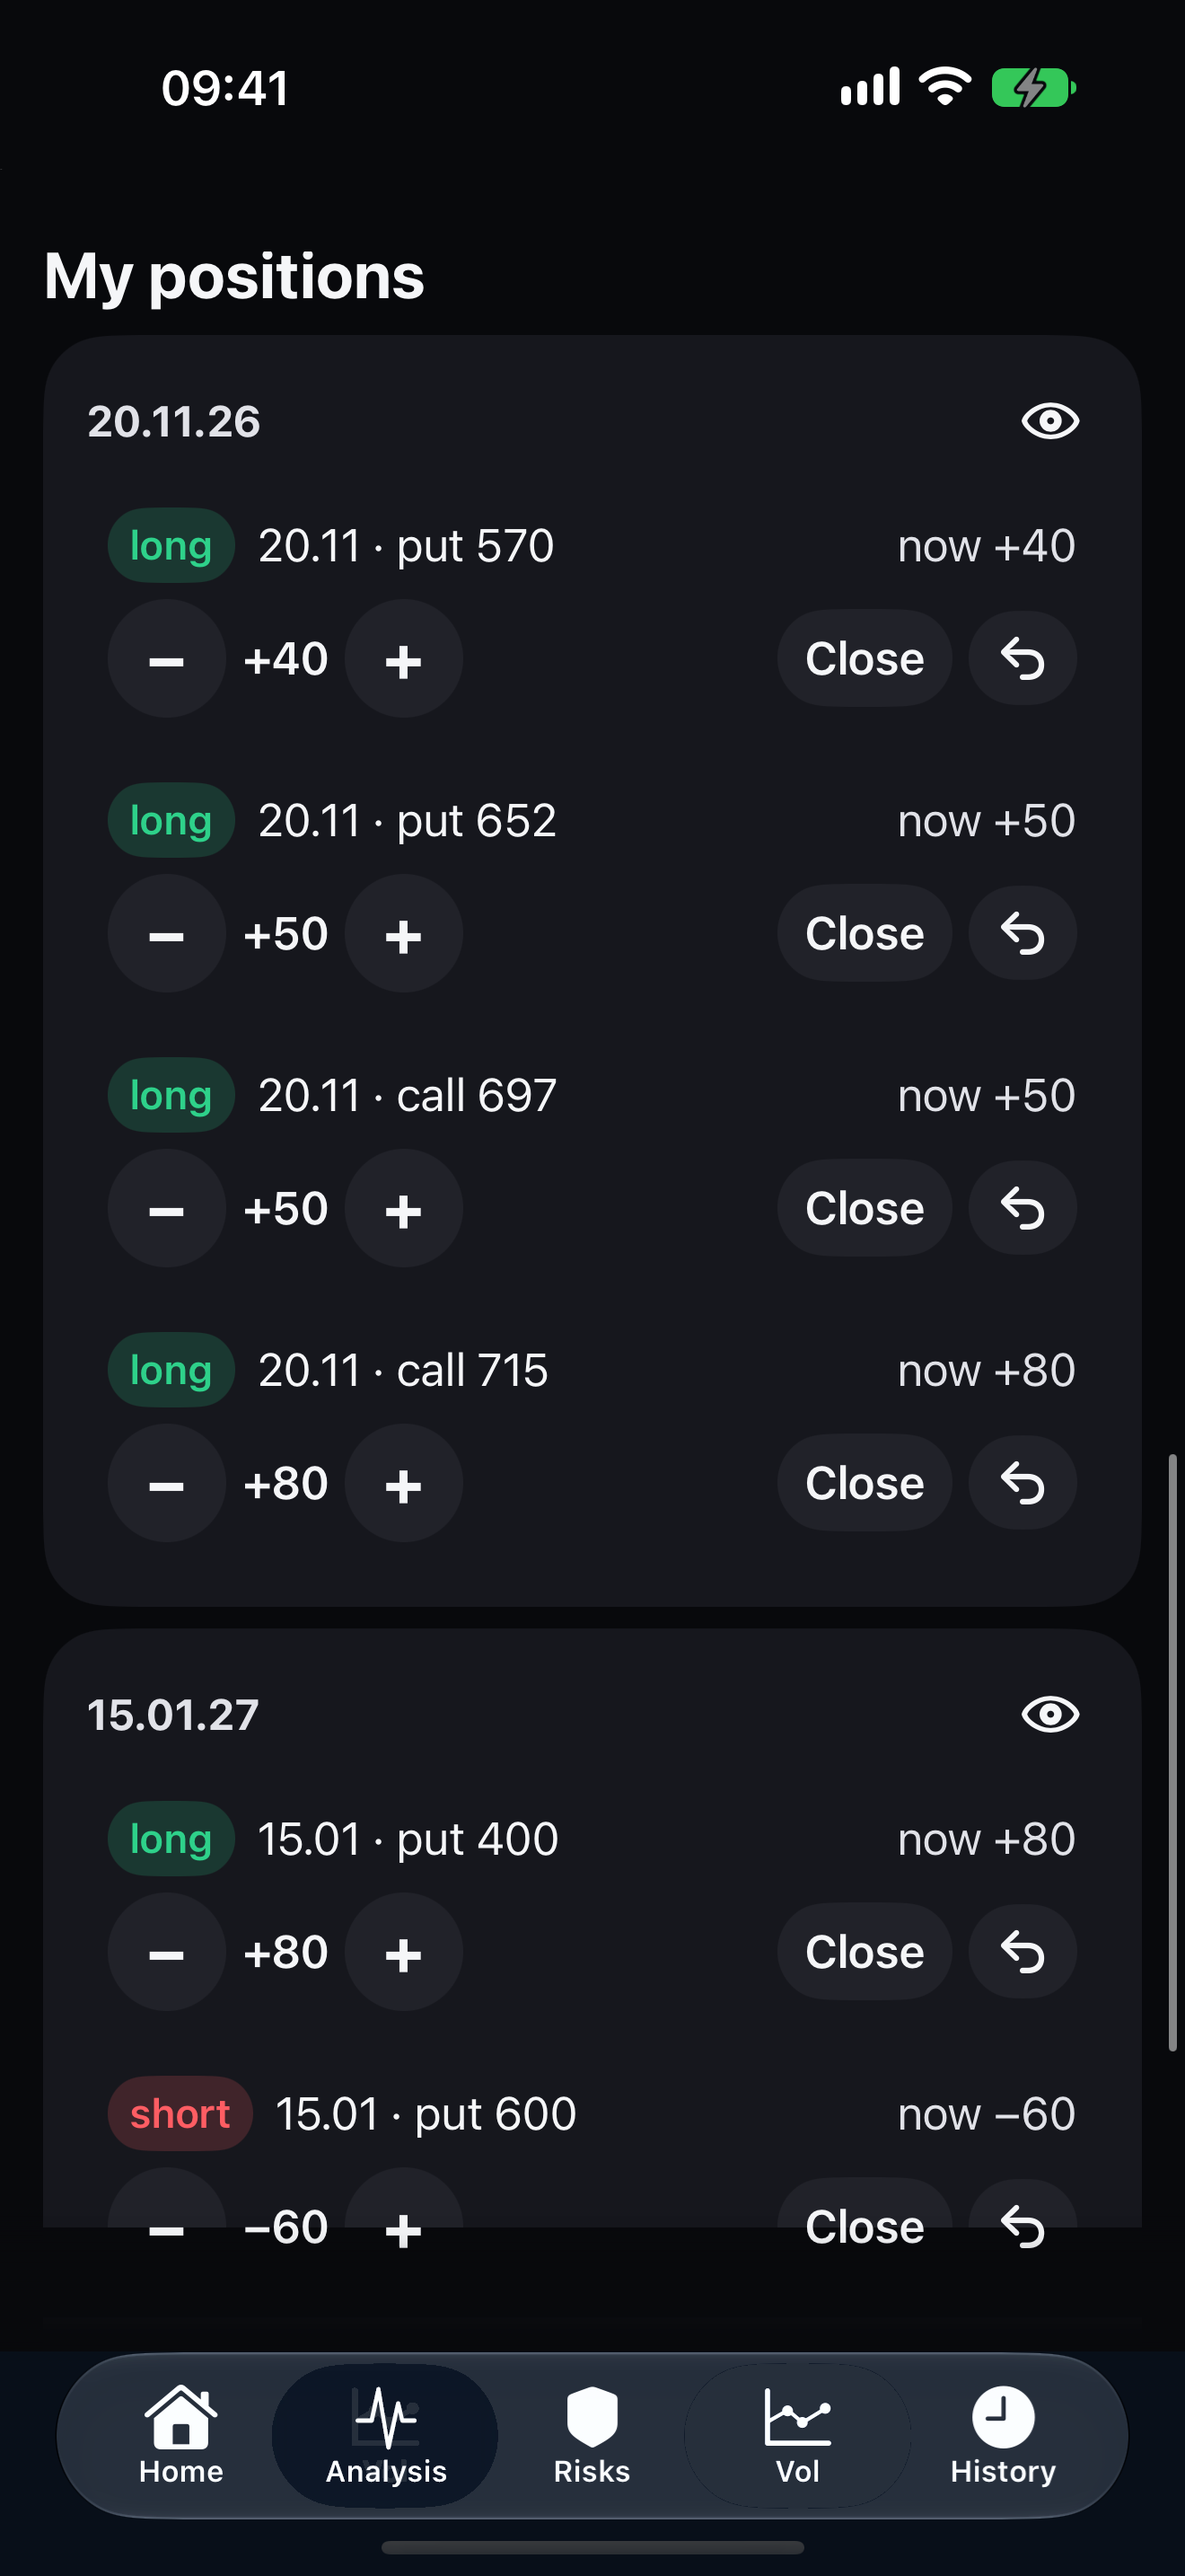
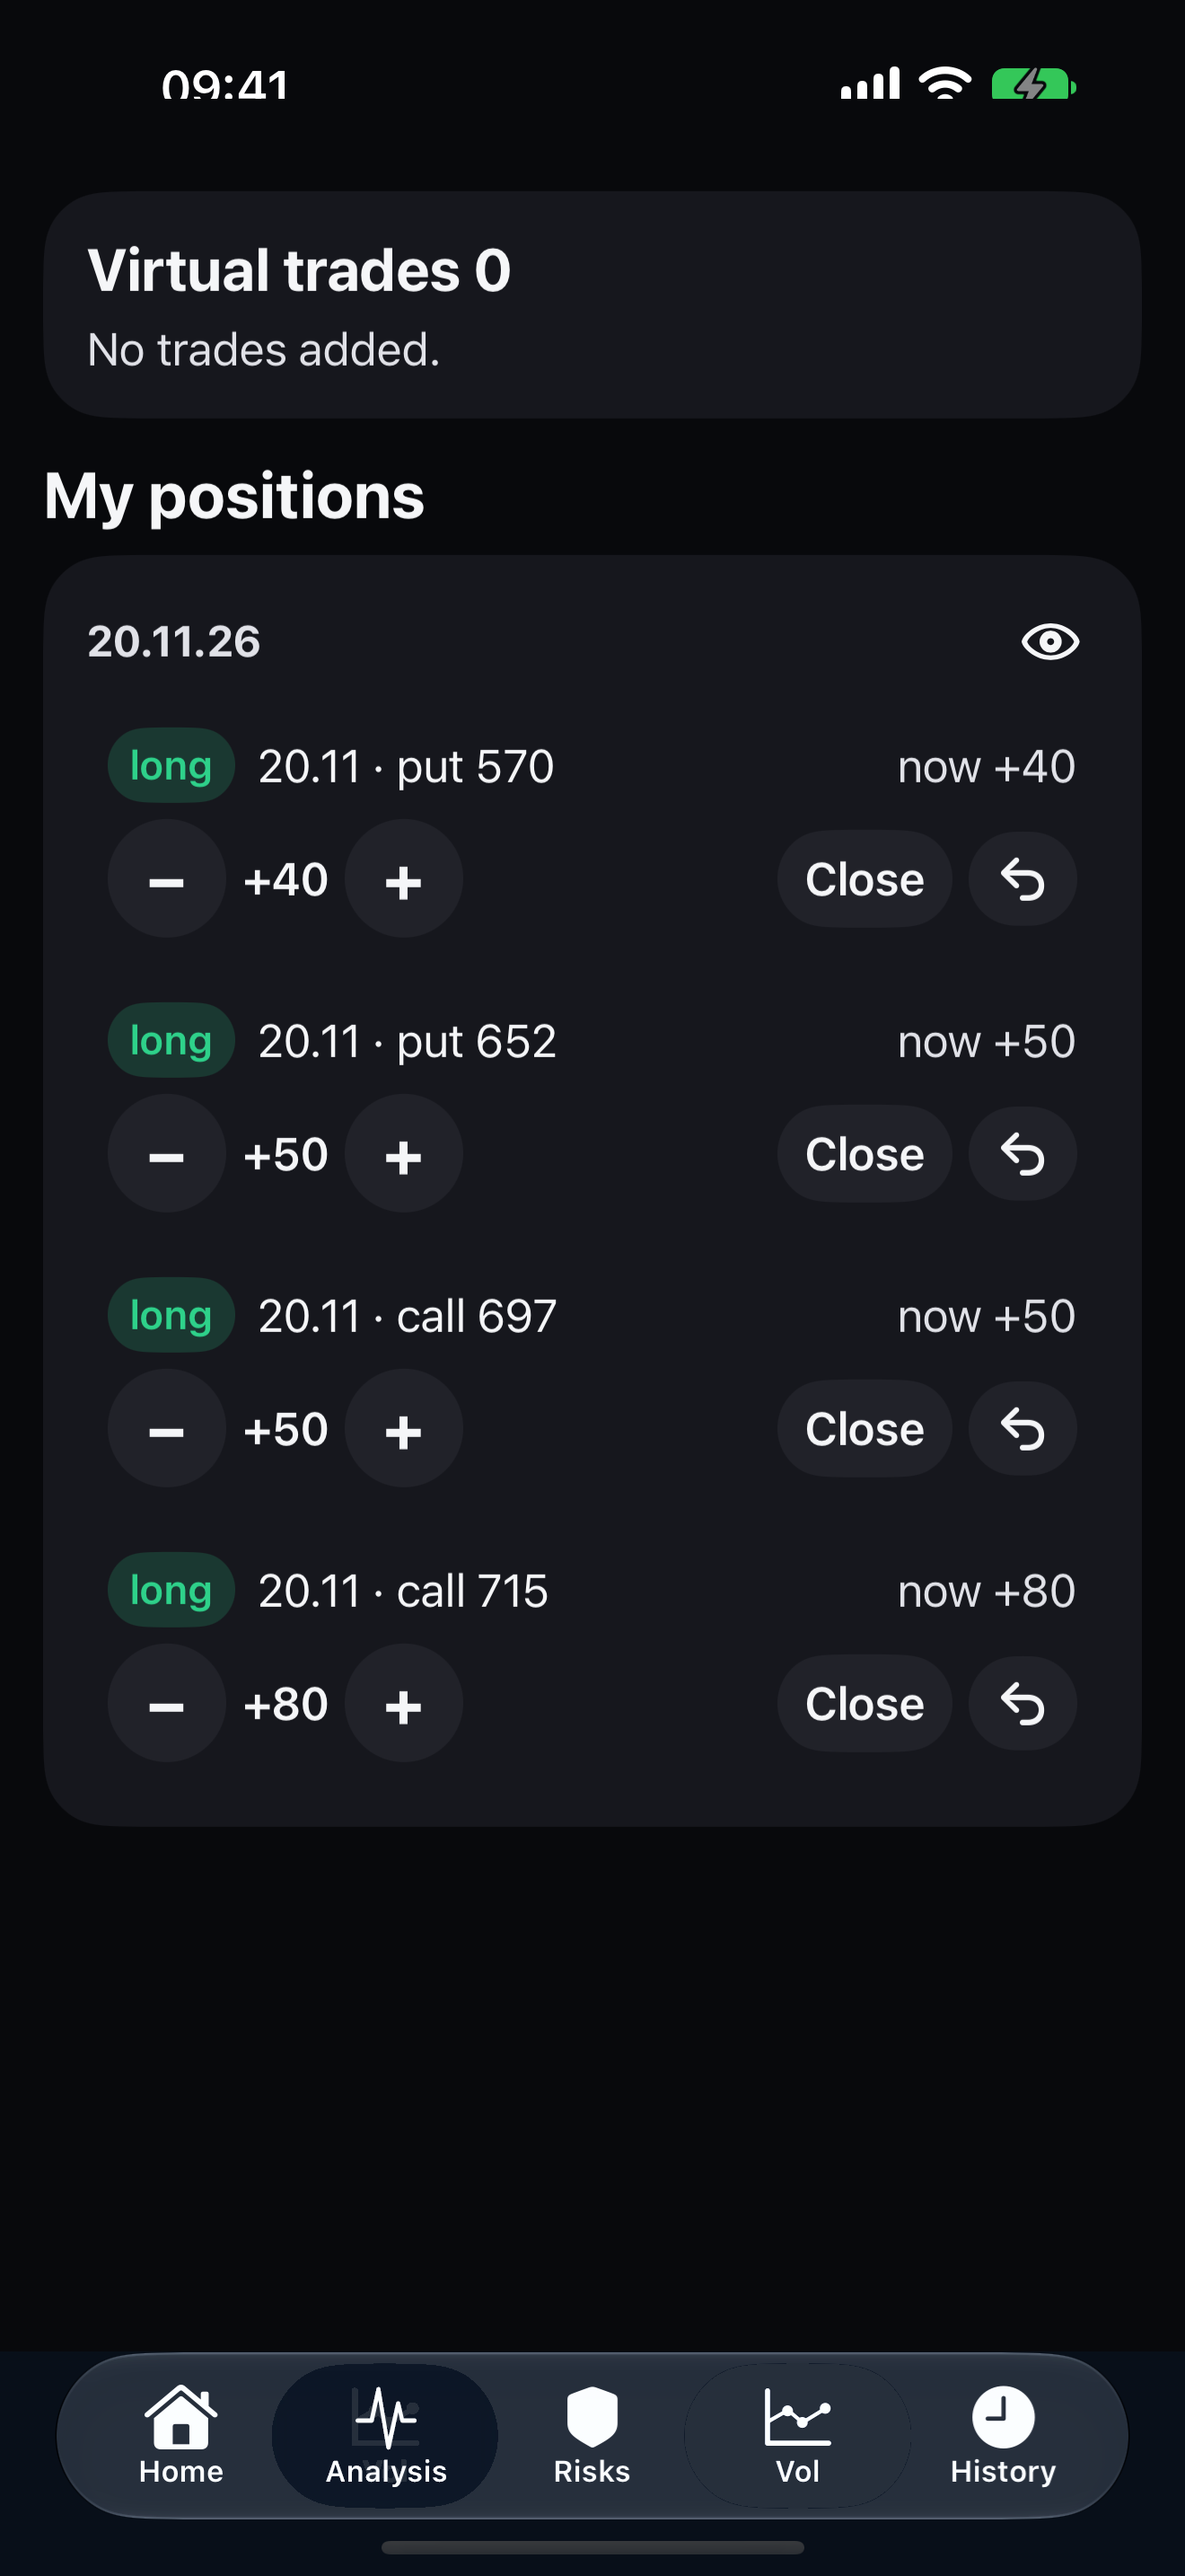
Add reshot app screens (demo data) for sections 01, 04, 05, 07, 09, 12. [skip ci]

diff --git a/screens/descriptions.md b/screens/descriptions.md
@@ -6,7 +6,11 @@ Optimized WebP copies used on the site live in `public/assets/`.
 
 ## 01-home-portfolio.png
 
-Home shows demo net liquidation, the day change, and the QQQ smile for a ±3% move, with constant-vol and realized-vol outcomes under the chart. This is the whole book, with no horizon filter.
+Home shows demo net liquidation, the day change, filled margin tiles, and the QQQ smile for a ±3% move. The +3% row of the move table is complete above the tab bar. This is the whole book, with no horizon filter.
+
+## 01-home-portfolio-bottom.png
+
+The same Home screen scrolled so the move table is fully on screen: both the +3% and −3% rows are complete, with constant-vol and realized-vol columns.
 
 ## 02-analysis-smile-now.png
 
@@ -18,11 +22,19 @@ Analysis with the Tomorrow horizon: options expiring before the next session are
 
 ## 04-analysis-virtual-leg.png
 
-The Virtual leg card, marked “calculation only · nothing is sent.” Today / Tomorrow / Any date, call or put, buy or sell, strike ribbon and quantity — still at quantity 0, so the leg is not on the chart.
+The Virtual leg card, marked “calculation only · nothing is sent.” Tomorrow 23.11, buy call 680, quantity 10. The strike ribbon shows whole chips (670–690). The preview reads “Draft on the chart: Buy 10 × 23.11 · call 680”.
+
+## 04-analysis-virtual-leg-chart.png
+
+Analysis, Tomorrow horizon (“without options 20.11”), with the same virtual call already on the smile. The gold and blue curves change shape versus the book-only chart.
 
 ## 05-analysis-legs-stepper.png
 
-My positions, with the 20 November 0DTE hedges above the January 2027 core, each row a quantity stepper, Close, and undo.
+My positions, 20 November 0DTE hedges, each row a quantity stepper, Close, and undo. The 20.11 card sits fully above the tab bar.
+
+## 05-analysis-legs-stepper-jan.png
+
+The same positions list scrolled to the 15 January 2027 core. The January card is complete, including every leg and Reset all, above the tab bar.
 
 ## 06-vol.png
 
@@ -30,7 +42,7 @@ The Vol tab: “Vol now” (below usual, with VXN and VIX), ATM implied vol by e
 
 ## 07-settings-live-activity.png
 
-Live Activity settings: Live is off, Compact is selected, Health reports mode and source as demo. Feed URL and secret fields are not on this screen.
+Live Activity settings, opened from Home so the Home tab stays selected. Live is off, Compact is selected, Health reports mode and source as demo and market as open. Feed URL and secret fields are not on this screen.
 
 ## 08-lock-compact-398.png
 
@@ -39,6 +51,10 @@ Lock Screen Live Activity in Compact layout, at the 398 pt content width on a 44
 ## 09-lock-two-lines-398.png
 
 The same activity in Two lines: demo NLV and the day change, then QQQ, VIX, and VXN.
+
+## 09-lock-two-lines-card-3x.png
+
+A tighter 3× render of the Two lines card (398 pt wide) so the index line stays sharp when enlarged. Gold “12s” freshness, demo NLV, day change, and QQQ / VIX / VXN.
 
 ## 10-dynamic-island-compact.png
 
@@ -50,7 +66,7 @@ Expanded Dynamic Island, matching the Two lines lock card.
 
 ## 12-widget-small.png / 12-widget-medium.png
 
-Home Screen widgets on the demo book (not a $100k sample). Small has NLV, the day change, and Worst ±2%. Medium adds QQQ and a Flat vol / Hedged sketch.
+Home Screen widgets on the demo book (not a $100k sample), rendered at 3×. Small has NLV, the day change, a gold “12s” freshness badge, the smile spark, and Worst ±2% at +$3,697. Medium adds QQQ and a Flat vol / Hedged chart with the same Worst figure.
 
 ## 13-lock-premarket-two-lines-398.png
 
